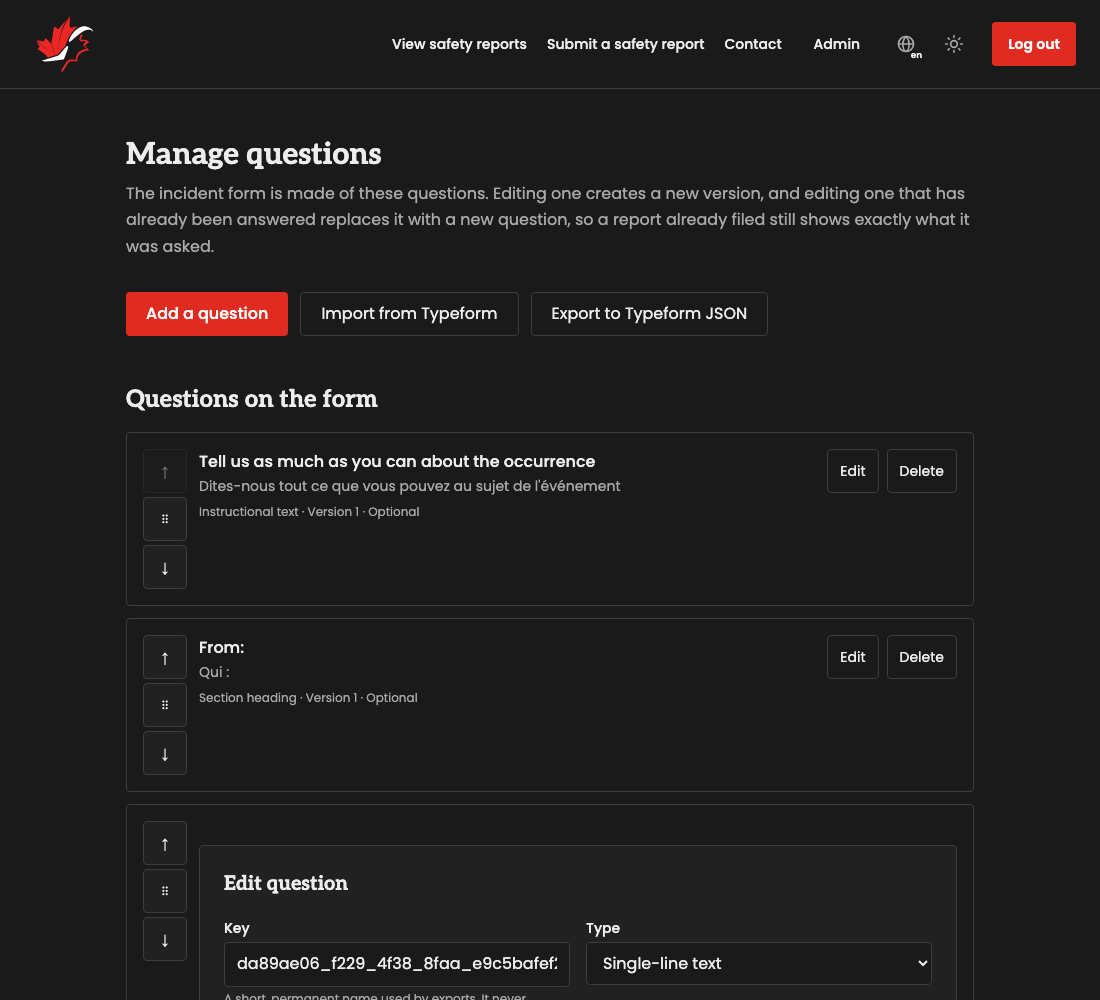
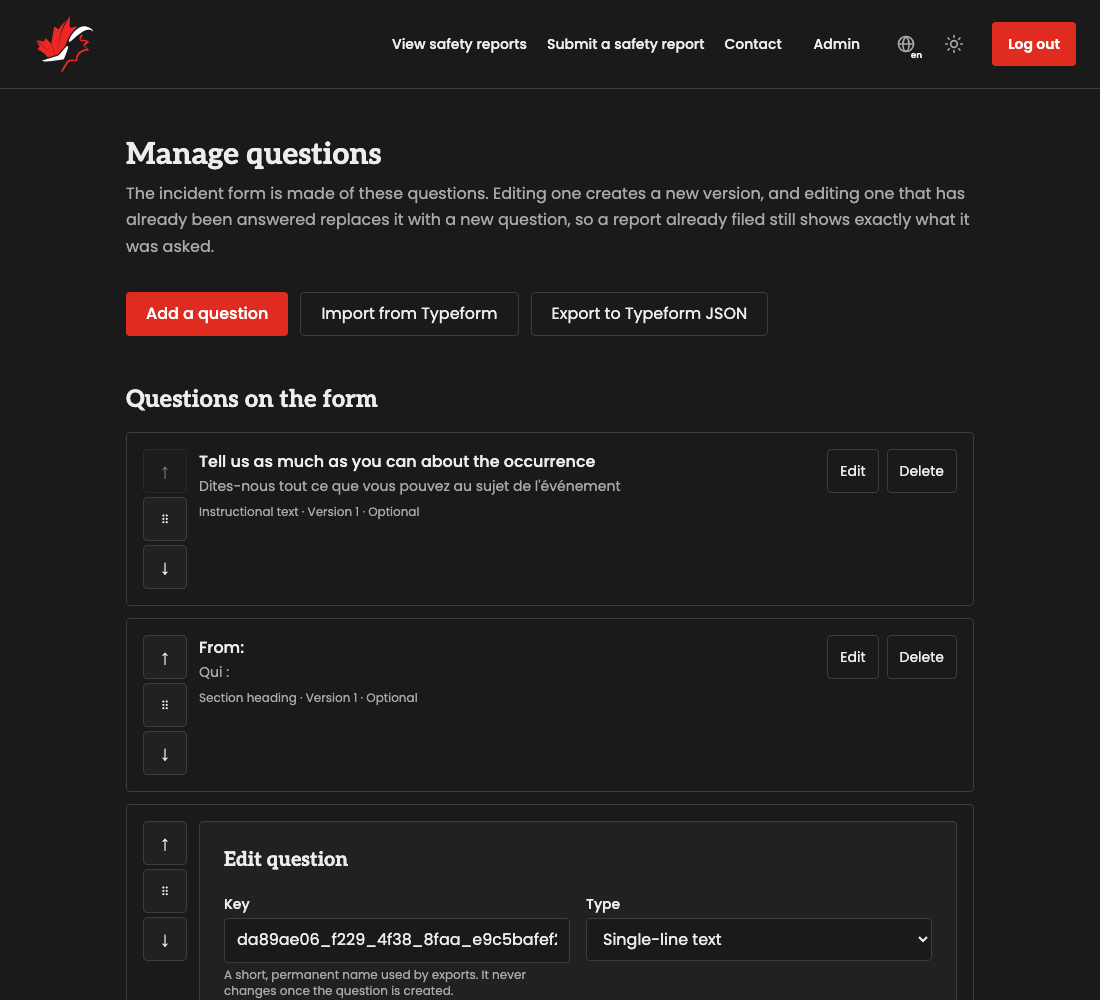
Line the in-place editor up with its row's move controls

Changed region(s): [[0.1855, 0.837, 0.68, 1.0]]

diff --git a/tests/e2e/steps/manage-questions.steps.ts b/tests/e2e/steps/manage-questions.steps.ts
@@ -604,6 +604,14 @@ Then("the editor takes the second question's place in the list", async ({ page }
 	await expect(page.getByRole("heading", { name: "Edit question" })).toHaveCount(1)
 })
 
+Then("the editor's top edge lines up with that row's move-up control", async ({ page }) => {
+	const row = page.getByRole("list", { name: "Questions on the form" }).getByRole("listitem").nth(1)
+	const editor = await row.locator("form").boundingBox()
+	const moveUp = await row.getByRole("button", { name: "Move up" }).boundingBox()
+
+	expect(Math.abs((editor?.y ?? 0) - (moveUp?.y ?? Number.POSITIVE_INFINITY))).toBeLessThanOrEqual(1)
+})
+
 Then("every other question is still shown in its place", async ({ page }) => {
 	const rows = page.getByRole("list", { name: "Questions on the form" }).getByRole("listitem")
 

diff --git a/src/web/src/routes/ManageQuestionsPage.tsx b/src/web/src/routes/ManageQuestionsPage.tsx
@@ -221,7 +221,7 @@ export function ManageQuestionsPage() {
 
 			{/* A new question is authored above the list; an existing one is
 			    edited in its own row, where the administrator clicked Edit. */}
-			{draft && editing === null && editor}
+			{draft && editing === null && <div className="mt-6">{editor}</div>}
 
 			<h2 className="mt-12 font-display text-2xl font-bold">{t("questions.listTitle")}</h2>
 

diff --git a/src/web/src/components/QuestionEditor.tsx b/src/web/src/components/QuestionEditor.tsx
@@ -240,7 +240,7 @@ export function QuestionEditor({
 
 	return (
 		<form
-			className="mt-6 flex flex-col gap-5 rounded border border-rule bg-surface-2 p-6"
+			className="flex flex-col gap-5 rounded border border-rule bg-surface-2 p-6"
 			onSubmit={(event) => {
 				event.preventDefault()
 				onSave(draft)
